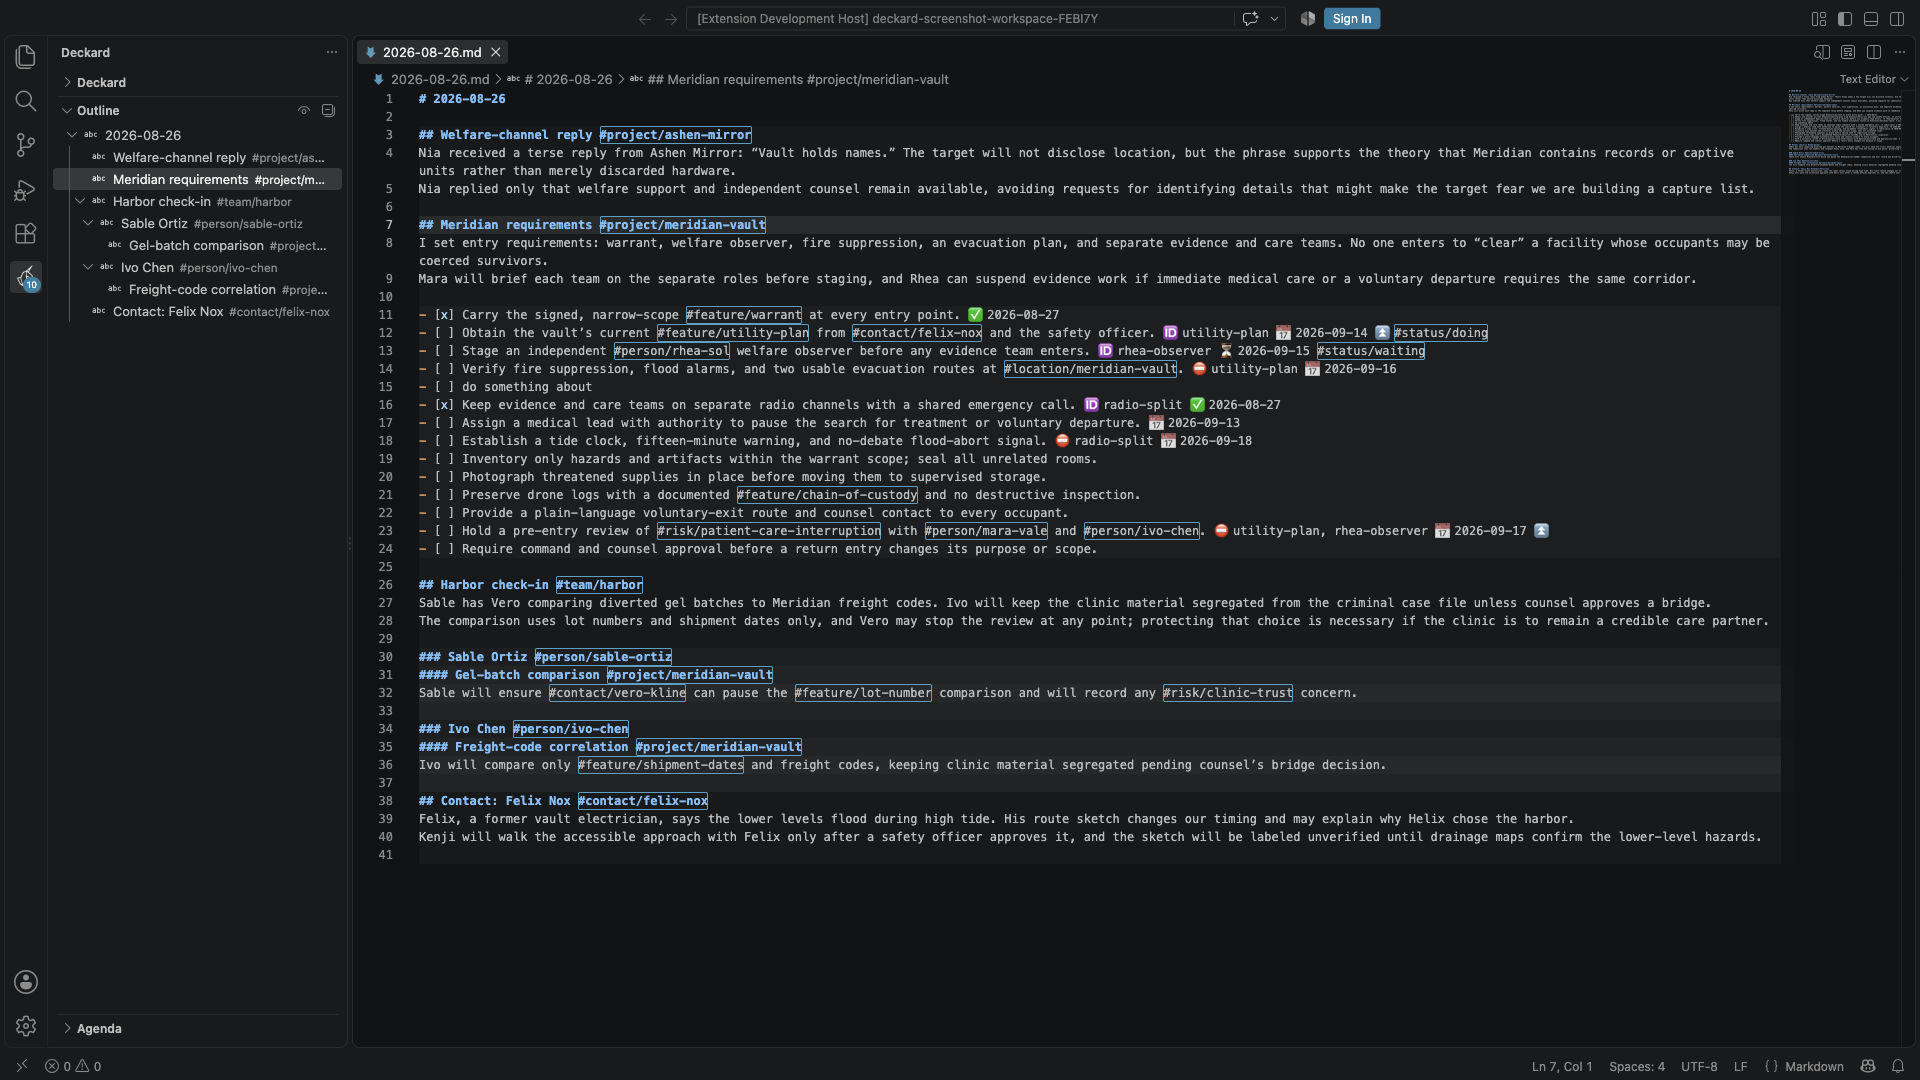
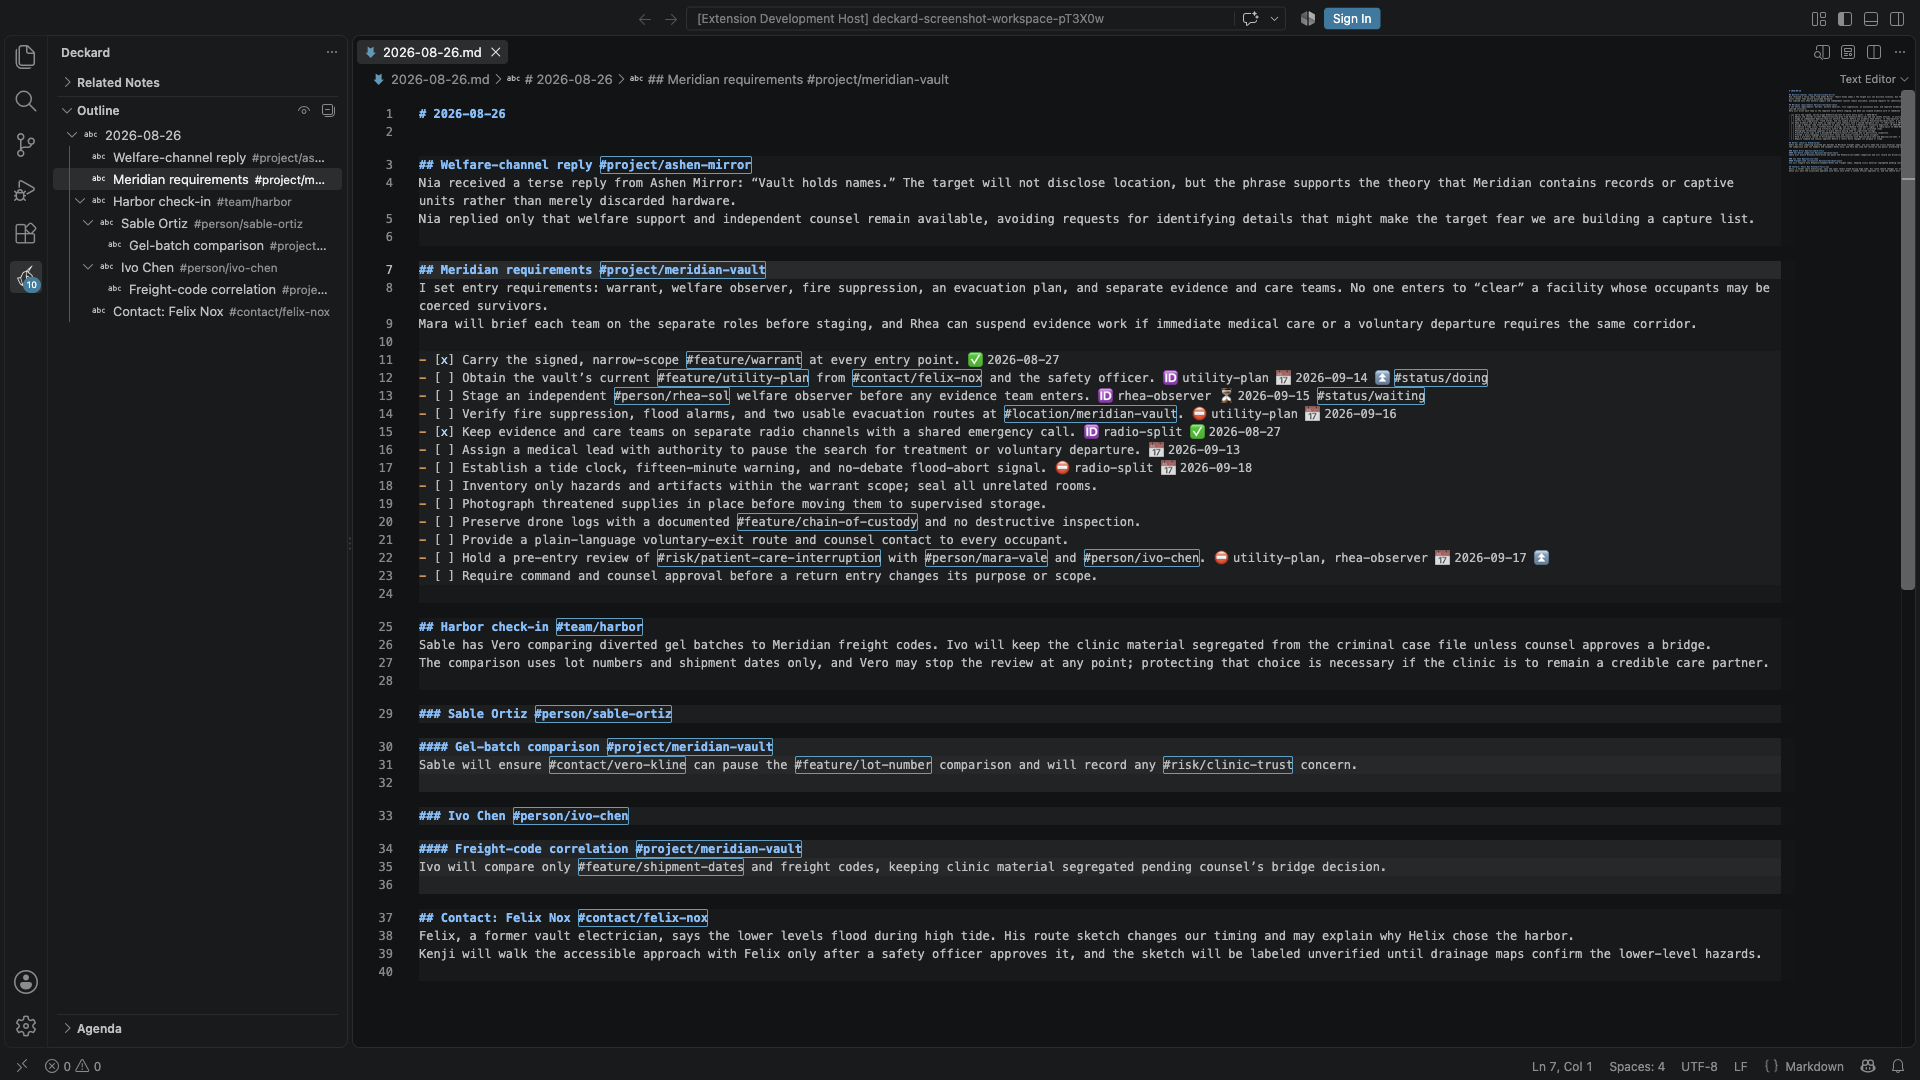
docs: remove a stray task from the sample notes
The unfinished "do something about" task showed in the README's Outline
and Agenda screenshots. Those are recaptured, along with Stats and the query
block preview, whose task counts included it.

diff --git a/docs/todo.md b/docs/todo.md
@@ -4,7 +4,6 @@
 - Later: move each webview's page script into TypeScript modules bundled by esbuild, with typed state and messages, so the pages are type-checked like the rest of the source. For now `npm run test:ui` type-checks and lints the generated scripts instead, which catches unknown names, redeclarations, syntax errors, and wrong argument counts but not type errors. The pages hold about 4,800 lines of script (the Notes Graph 1,771, the Dashboard 1,133, the Tag Overview 1,067), and about 400 checks in `src/test/messages-rendering.test.ts` match script source text, so they would need rewriting as behavior tests first.
 - The Dashboard's Notes tab is still sent, and draws, every note on each save: about 9.9 MB at 940 notes in the Markdown view. Page or virtualize that list if it shows up in Deckard's log.
 - The first build of the search cache, in a new workspace or after the cache is cleared, still writes every note synchronously on the extension host: about 140 ms at 940 notes and 820 ms at 5,000. Rescans are incremental now. Move the store to a worker thread if that first build shows up as Slow in Deckard's log.
-- Remove the stray `- [ ] do something about` task from `development/notes/2026-08-26.md`; it shows in the README screenshots.
 - Cut a release: the CHANGELOG's Unreleased section is long for version 1.8.0.
 - Created and updated dates, used for sorting and the `created` and `updated` query fields, still come from file timestamps, which a git clone resets. Consider daily-note and front-matter dates there too, as loose task dates now do.
 

diff --git a/development/notes/2026-08-26.md b/development/notes/2026-08-26.md
@@ -12,7 +12,6 @@ Mara will brief each team on the separate roles before staging, and Rhea can sus
 - [ ] Obtain the vault’s current #feature/utility-plan from #contact/felix-nox and the safety officer. 🆔 utility-plan 📅 2026-09-14 ⏫ #status/doing
 - [ ] Stage an independent #person/rhea-sol welfare observer before any evidence team enters. 🆔 rhea-observer ⏳ 2026-09-15 #status/waiting
 - [ ] Verify fire suppression, flood alarms, and two usable evacuation routes at #location/meridian-vault. ⛔ utility-plan 📅 2026-09-16
-- [ ] do something about 
 - [x] Keep evidence and care teams on separate radio channels with a shared emergency call. 🆔 radio-split ✅ 2026-08-27
 - [ ] Assign a medical lead with authority to pause the search for treatment or voluntary departure. 📅 2026-09-13
 - [ ] Establish a tide clock, fifteen-minute warning, and no-debate flood-abort signal. ⛔ radio-split 📅 2026-09-18
